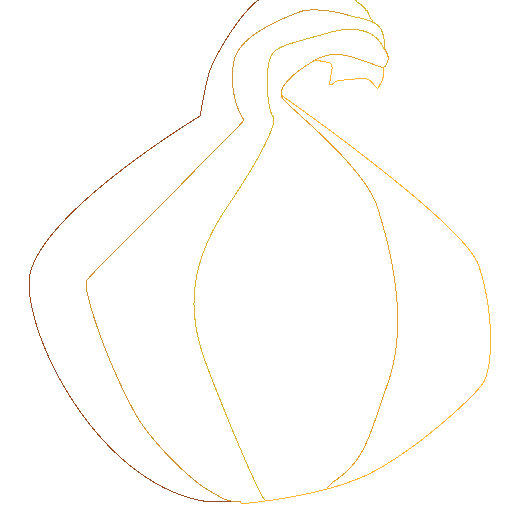
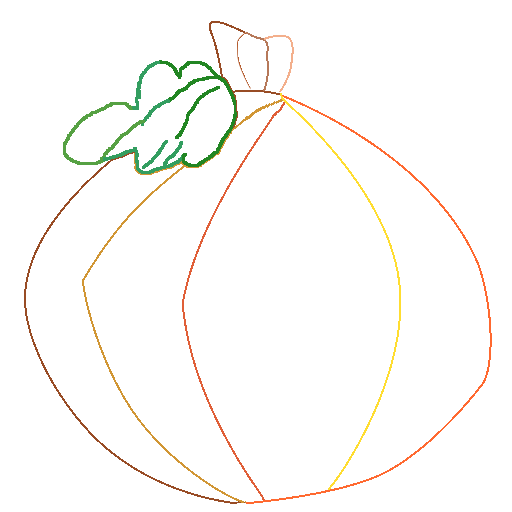
Update README.md

diff --git a/main.py b/main.py
@@ -16,7 +16,7 @@ Comments    :   I have no idea how freeform gradient's algo works I'm just playi
 ## !{{{   IMAGE MUST BE A PNG FILE WITH ALPHA CHANNEL AVAILABLE   }}}!
 
 ## INPUT IMAGE LOCATION (Do NOT change extension from .png to anything else)
-IN_IMAGE_NAM = "IMAGE_NAME_GOES_HERE"     # No need to add extension
+IN_IMAGE_NAM = "Pumpkin"     # No need to add extension
 IN_IMAGE_EXT = ".png"       # ONLY WORKS FOR PNGs (for now)
 
 
